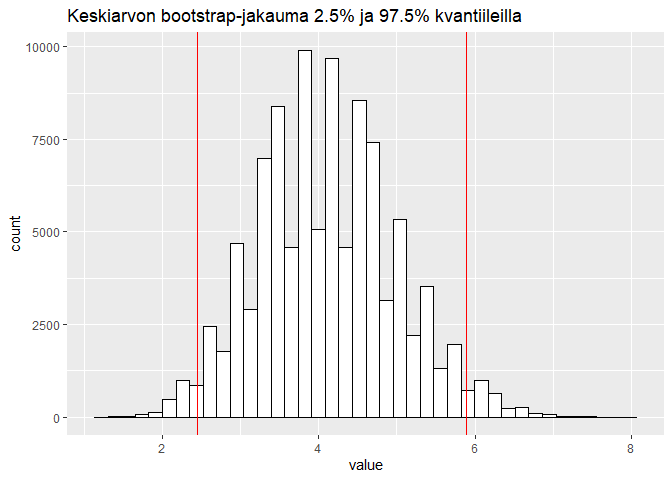
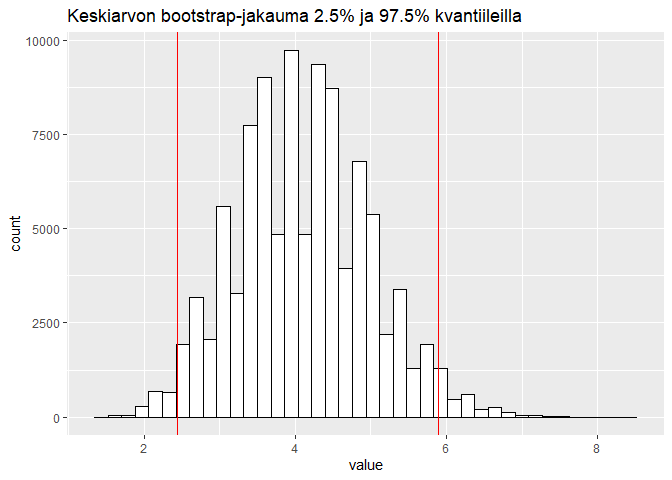
Lisätty algebraa

diff --git a/Bayesian bootstrap/Bayesian-bootstrap.md b/Bayesian bootstrap/Bayesian-bootstrap.md
@@ -1,7 +1,7 @@
 Bayesiläinen bootstrap
 ================
 Johannes Rajala
-2023-02-20
+2023-03-13
 
 ### Johdanto
 
@@ -34,7 +34,7 @@ results = as_tibble(bootstrap(data, {function(x) mean(x)}, 100000))
 cat("Bootstrap keskiarvojen varianssin estimaatti:",var(results))
 ```
 
-    ## Bootstrap keskiarvojen varianssin estimaatti: 0.7727396
+    ## Bootstrap keskiarvojen varianssin estimaatti: 0.7750053
 
 ![](Bayesian-bootstrap_files/figure-gfm/unnamed-chunk-3-1.png)<!-- -->
 
@@ -45,7 +45,24 @@ alkuperäisen otoksen havainnolle $y_i$ arvotaan kokonaislukupaino $w_i$
 siten, että $\sum_{i=1}^n w_i = n$, tai vastaavasti
 $\sum_{i=1}^n \frac{1}{n}w_i = 1$. Boootstrap otoksen $B^{(k)}$ painot
 noudattavat siis multinomijakaumaa,
-$W^{(K)} \sim \text{Multinomi}(1, n, (\frac{1}{n},\ldots,\frac{1}{n}))$.
+$W^{(K)} \sim \text{Multinomi}(1, n, (\frac{1}{n},\ldots,\frac{1}{n}))$,
+jonka pistetodennäköisyysfunktio on yleisessä muodossa:
+
+$$
+f(x_1\ldots x_k;n,p_1\ldots p_k) = p(X_1=x_1, \ldots, X_k=x_k)=\begin{cases} 
+\frac{n!}{x_1!\ldots x_k!}p_1^{x_1}\ldots p_k^{x_k} &,\text{ kun } \sum_{i=1}^{k}x_i =n \\
+0 & , \text{ muuten.}
+\end{cases}
+$$
+
+joka voidaan esittää myös gammafunktion avulla:
+
+$$
+f(x_1\ldots x_k;p_1\ldots p_k)=\begin{cases} 
+\frac{\Gamma(\sum_{i=1}^kx_i+1)}{\prod_{i=1}^k\Gamma(x_i+1)} \prod_{i=1}^kp_i^{k_i} &,\text{ kun } \sum_{i=1}^{k}x_i =1 \\
+0 & , \text{ muuten.}
+\end{cases}
+$$
 
 ### Bayesiläinen bootstrap
 
@@ -53,9 +70,20 @@ Painojen jakaumaksi voidaan valita disktreetin multinomijakauman sijaan
 jatkuva Dirichlet-jakauma,
 $\frac{1}{n}W^{(K)} \sim \text{Dirichlet}( 1, (\frac{1}{n}\ldots\frac{1}{n}))$,
 jolle pätee $\sum_{i=1}^nw_i = 1$, ja vastaavasti
-$\sum_{i=1}^nnw_i = n$. Dirichlet-jakaumaa voidaan käyttää
-epäinformatiivisena priorina alkuperäiselle datalle tehdylle
-estimaatille, ja näin saadaan parametrin estimaatin posteriorijakauma.
+$\sum_{i=1}^nnw_i = n$.
+
+Dirichlet-jakauman tiheysfunktio voidaan esittää muodossa:
+
+$$
+f(x_1\ldots x_k;\alpha_1\ldots \alpha_k)=\begin{cases} 
+\frac{\Gamma(\sum_{i=1}^k \alpha_i)}{\prod_{i=1}^k\Gamma(\alpha_i)} \prod_{i=1}^kx_i^{\alpha_i-1} &,\text{ kun } \sum_{i=1}^{k}x_i =1 \\
+0 & , \text{ muuten.}
+\end{cases}
+$$
+
+Dirichlet-jakaumaa voidaan käyttää epäinformatiivisena priorina
+alkuperäiselle datalle tehdylle estimaatille, ja näin saadaan parametrin
+estimaatin posteriorijakauma.
 
 ### Esimerkki
 
@@ -82,7 +110,7 @@ results_bayes = as_tibble(bootstrap_bayes(data, {function(x) mean(x)}, 100000))
 cat("Bootstrap keskiarvojen varianssin bayes estimaatti:",var(results_bayes))
 ```
 
-    ## Bootstrap keskiarvojen varianssin bayes estimaatti: 0.6938652
+    ## Bootstrap keskiarvojen varianssin bayes estimaatti: 0.7035278
 
 ![](Bayesian-bootstrap_files/figure-gfm/unnamed-chunk-6-1.png)<!-- -->
 
